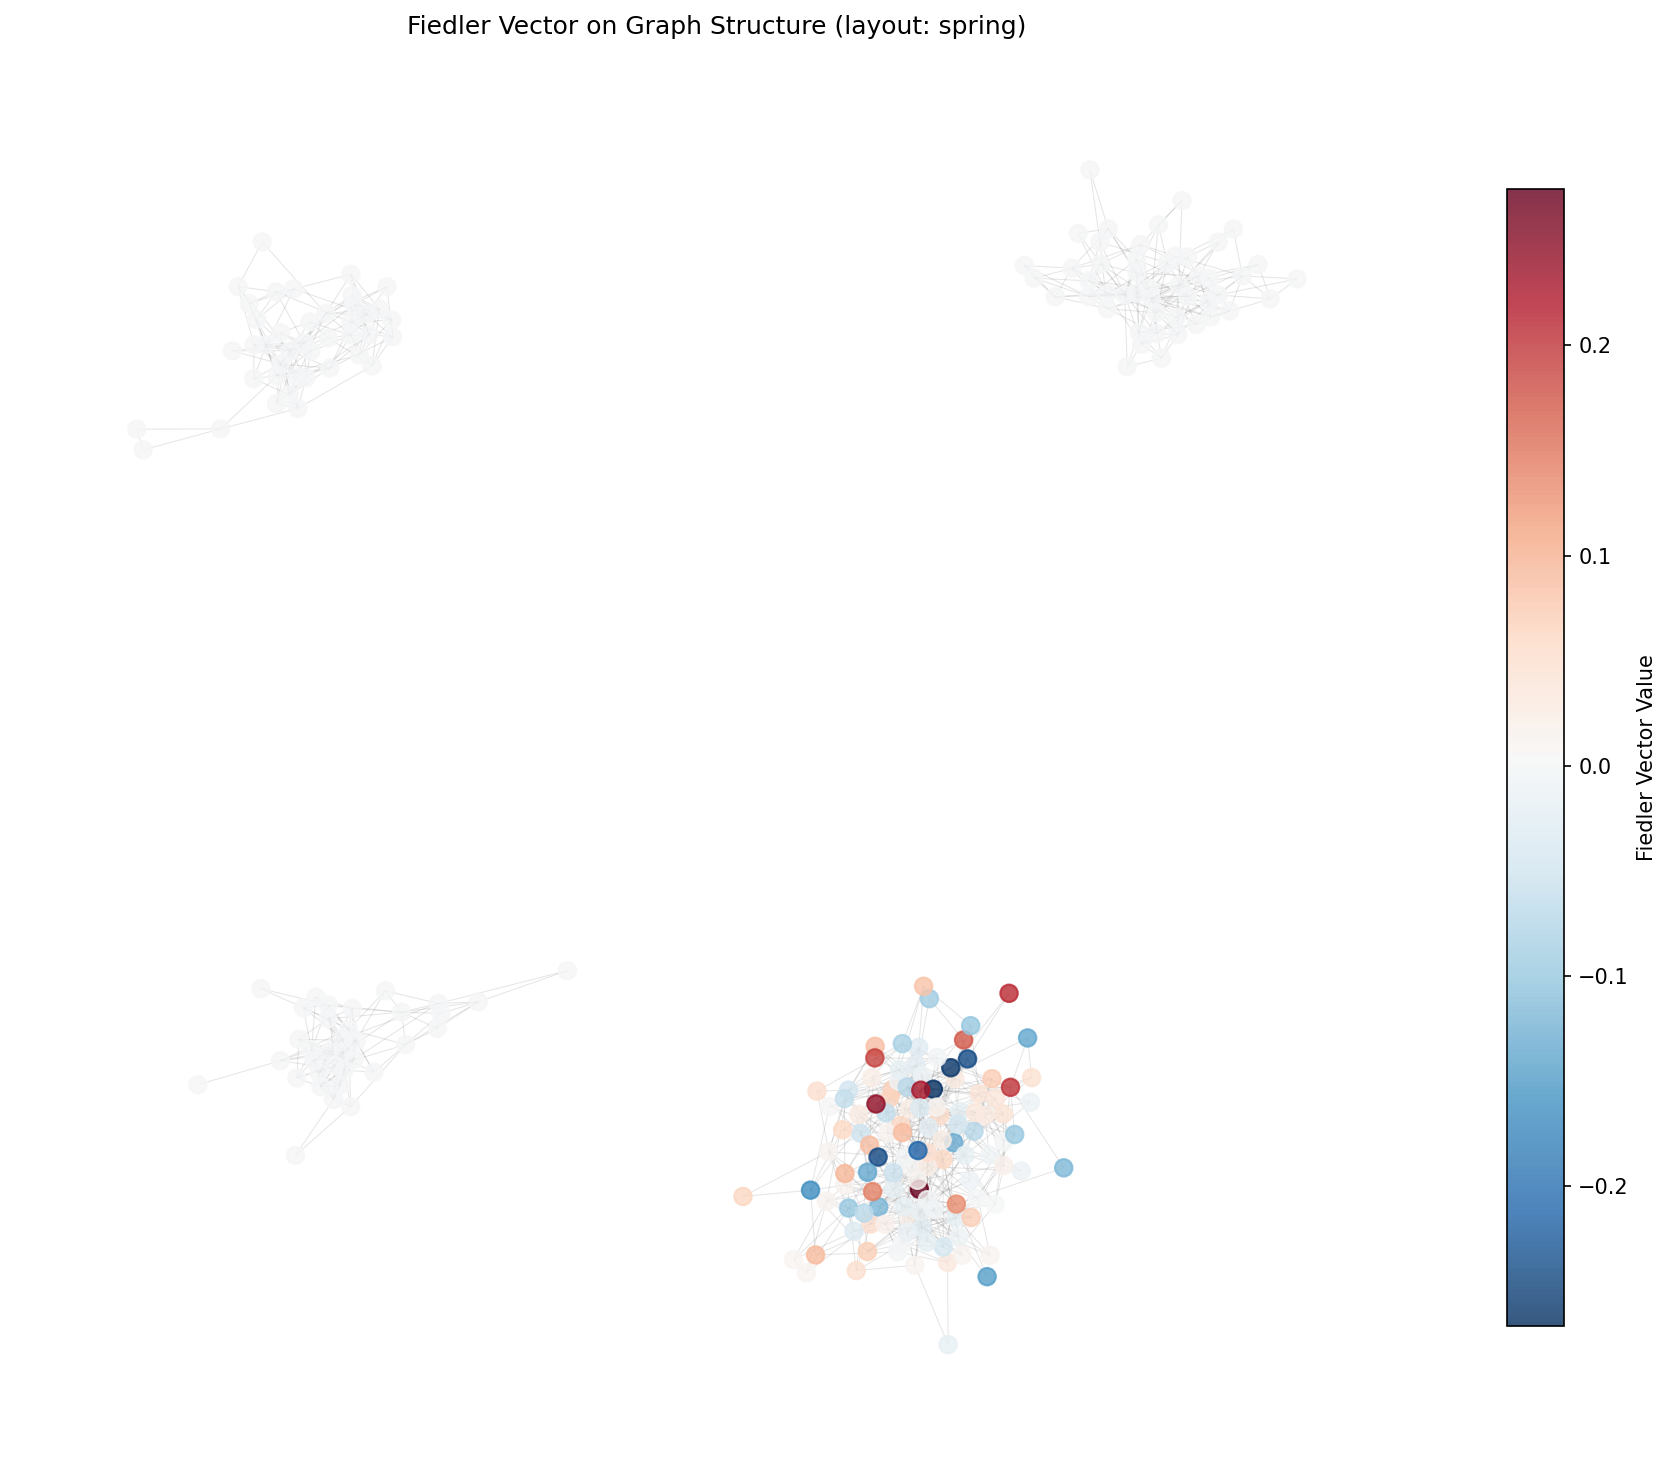
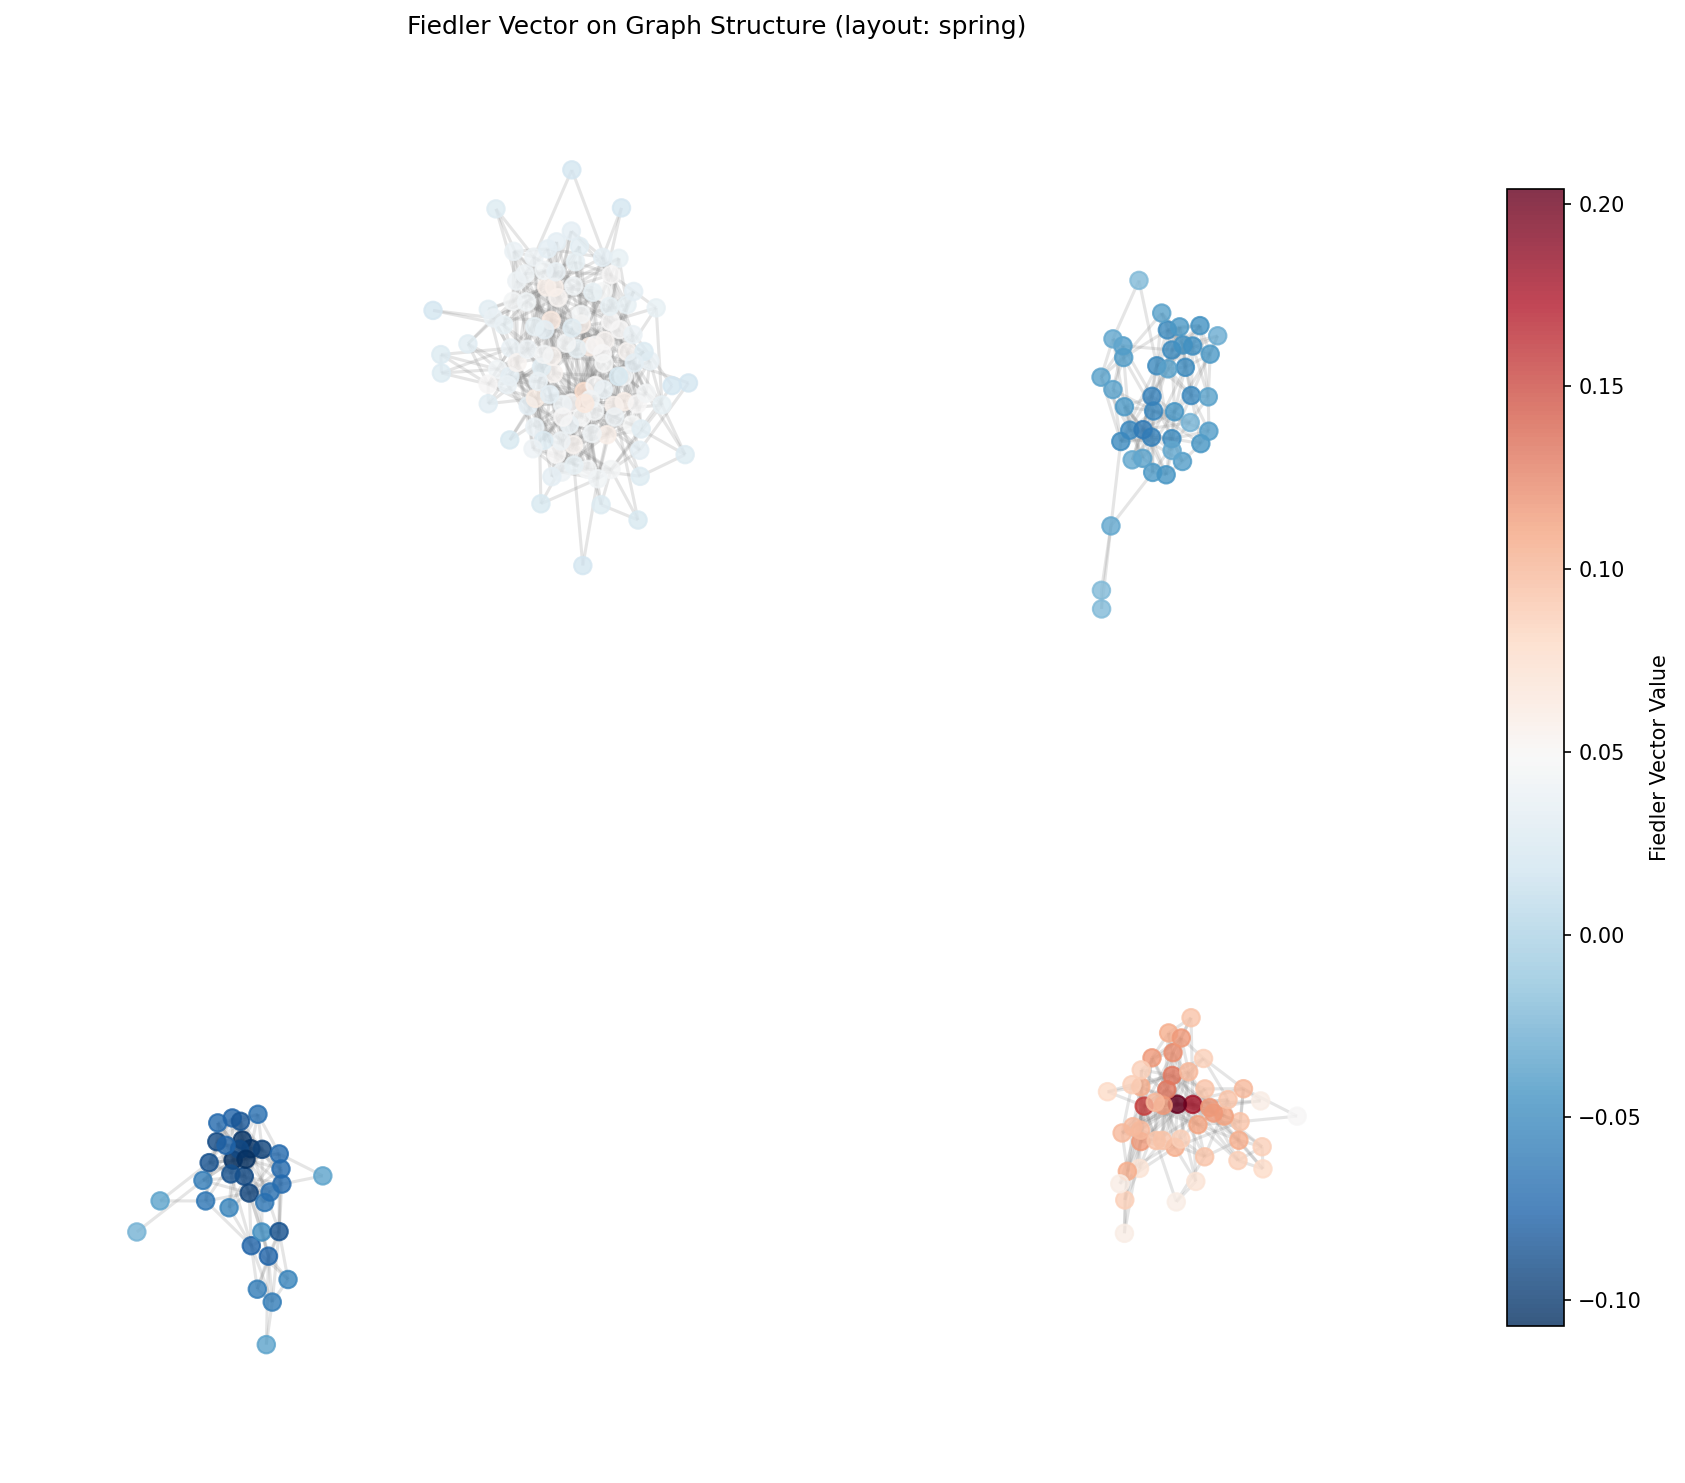
Gap detection

diff --git a/miner/core/spectra/cluster_machine.py b/miner/core/spectra/cluster_machine.py
@@ -60,7 +60,10 @@ class ClusterMachine:
         return self.eigenvectors
 
     @timer(active=True)
-    def compute_eigenvalues(self) -> EighResult:
+    def compute_eigenvalues(self, k: int | None = None) -> EighResult:
+        if k is None:
+            k = self.k
+
         if self.laplacian is None:
             self.build_laplacian()
 
@@ -68,7 +71,7 @@ class ClusterMachine:
         # If k is None, compute all eigenvalues (up to n-1 for n×n matrix)
 
         # Compute the k largest eigenvalues and eigenvectors
-        eigenvalues, eigenvectors = eigsh(self.laplacian, k=self.k, which="LA")
+        eigenvalues, eigenvectors = eigsh(self.laplacian, k=k, which="LA")
 
         # Sort the eigenvalues and eigenvectors in descending order
         # (x1, x2,..., xk)
@@ -76,7 +79,7 @@ class ClusterMachine:
         self.eigenvalues = eigenvalues[idx]
         self.eigenvectors = eigenvectors[:, idx]
 
-        self.logger.debug(f"Computed {self.k} largest eigenvalues and eigenvectors")
+        self.logger.debug(f"Computed {k} largest eigenvalues and eigenvectors")
 
         return EighResult(eigenvalues=self.eigenvalues, eigenvectors=self.eigenvectors)
 
@@ -98,41 +101,28 @@ class ClusterMachine:
 
     @property
     def fiedler_vector(self) -> np.ndarray:
-        """
-        Compute and return the Fiedler vector.
-        The Fiedler vector is the eigenvector corresponding to the second smallest
-        eigenvalue of the Laplacian. For the normalized Laplacian, this corresponds
-        to the eigenvector of the second smallest eigenvalue (after the zero eigenvalue).
+        # Check if we already computed eigenvectors for clustering
+        if self.eigenvectors is not None and self.eigenvectors.shape[1] >= 2:
+            # The eigenvectors are already sorted descending (Largest to Smallest)
+            # Index 0 is the stationary distribution (lambda ~ 1)
+            # Index 1 is the Fiedler vector (lambda ~ 2nd largest)
+            return self.eigenvectors[:, 1]
 
-        Returns:
-            The Fiedler vector as a numpy array
-        """
-        if self._fiedler_vector is None:
-            if self.laplacian is None:
-                self.build_laplacian()
+        # If not computed yet, compute the top 2 LARGEST
+        if self.laplacian is None:
+            self.build_laplacian()
 
-            # Compute the smallest eigenvalues to get the Fiedler vector
-            # The Fiedler vector corresponds to the second smallest eigenvalue
-            # (the first smallest is typically 0 for connected graphs)
-            k = min(2, self.laplacian.shape[0] - 1)
-            eigenvalues, eigenvectors = eigsh(self.laplacian, k=k, which="SA")
+        vals, vecs = eigsh(self.laplacian, k=2, which="LA")
 
-            # Sort in ascending order (smallest first)
-            idx = eigenvalues.argsort()
-            sorted_eigenvalues = eigenvalues[idx]
-            sorted_eigenvectors = eigenvectors[:, idx]
+        # Sort descending
+        idx = vals.argsort()[::-1]
+        sorted_vecs = vecs[:, idx]
 
-            # The Fiedler vector is the second smallest (index 1)
-            # If we only have one eigenvalue, use that one
-            if len(sorted_eigenvalues) >= 2:
-                self._fiedler_vector = sorted_eigenvectors[:, 1]
-            else:
-                self.logger.warning(
-                    "Only one eigenvalue available, using it as Fiedler vector"
-                )
-                self._fiedler_vector = sorted_eigenvectors[:, 0]
-
-            self.logger.debug("Computed Fiedler vector")
+        # Return 2nd vector
+        if sorted_vecs.shape[1] >= 2:
+            self._fiedler_vector = sorted_vecs[:, 1]
+        else:
+            self._fiedler_vector = sorted_vecs[:, 0]
 
         return self._fiedler_vector
 

diff --git a/miner/core/spectra/gap_finder.py b/miner/core/spectra/gap_finder.py
@@ -1,0 +1,54 @@
+import logging
+import numpy as np
+
+from scipy.sparse import csr_matrix
+
+from miner.core.spectra.cluster_machine import ClusterMachine
+
+
+class GapFinder:
+    def __init__(self, graph: csr_matrix):
+        self.graph = graph
+        self.logger = logging.getLogger(__name__)
+        self.cluster_machine = ClusterMachine(graph)
+        self.gaps = None
+        self.max_gap = None
+
+    def find_best_k(self, max_k_to_check: int) -> int:
+        """
+        Finds the optimal number of clusters (k) by looking for the largest eigengap.
+        Returns the integer k.
+        """
+        self.find_all_gaps(max_k_to_check)
+
+        gap_index = np.argmax(self.gaps)
+
+        best_k = gap_index + 1
+
+        self.logger.info(
+            f"Largest gap found at index {gap_index}, suggesting k={best_k}"
+        )
+        return best_k
+
+    def find_all_gaps(self, max_k: int) -> list[float]:
+        """
+        Computes the first max_k eigenvalues and calculates the gaps.
+        """
+        self.cluster_machine.k = max_k
+
+        self.cluster_machine.compute_eigenvalues()
+
+        eigenvalues = self.cluster_machine.eigenvalues
+
+        gaps = eigenvalues[:-1] - eigenvalues[1:]
+
+        self.gaps = gaps
+
+        if self.logger.isEnabledFor(logging.DEBUG):
+            self.log_gaps()
+
+        return gaps
+
+    def log_gaps(self):
+        for i, gap in enumerate(self.gaps):
+            self.logger.debug(f"Gap between λ_{i + 1} and λ_{i + 2}: {gap:.4f}")

diff --git a/test/spectra/test_cluster_machine.py b/test/spectra/test_cluster_machine.py
@@ -16,7 +16,7 @@ PRESENTATION_DIR = ROOT_DIR / "presentation" / "hw4" / "imgs"
 EXAMPLE_1_FOLDER = PRESENTATION_DIR / "example1"
 EXAMPLE_2_FOLDER = PRESENTATION_DIR / "example2"
 K1 = 4
-K2 = 10
+K2 = 2
 
 EXAMPLE_1_K_FOLDER = EXAMPLE_1_FOLDER / f"K_{K1}"
 EXAMPLE_2_K_FOLDER = EXAMPLE_2_FOLDER / f"K_{K2}"
@@ -39,9 +39,7 @@ def test_cluster_machine_1(K: int):
 
     plotter = ClusterPlotter(cluster_machine)
     plotter.plot_clusters(EXAMPLE_1_K_FOLDER, f"example1_clusters_K_{K}.png")
-    plotter.plot_eigenvalue_spectrum(
-        EXAMPLE_1_K_FOLDER, f"example1_eigenvalue_spectrum_K_{K}.png"
-    )
+
     plotter.plot_graph_structure(
         EXAMPLE_1_K_FOLDER,
         f"example1_graph_structure_K_{K}.png",
@@ -69,13 +67,11 @@ def test_cluster_machine_2(K: int):
 
     plotter = ClusterPlotter(cluster_machine)
     plotter.plot_clusters(EXAMPLE_2_K_FOLDER, f"example2_clusters_K_{K}.png")
-    plotter.plot_eigenvalue_spectrum(
-        EXAMPLE_2_K_FOLDER, f"example2_eigenvalue_spectrum_K_{K}.png"
-    )
+
     plotter.plot_graph_structure(
         EXAMPLE_2_K_FOLDER,
         f"example2_graph_structure_K_{K}.png",
-        layout="circular",
+        layout="spring",
         node_size=70,
     )
     plotter.plot_fiedler_vector(

diff --git a/miner/core/spectra/cluster_plotter.py b/miner/core/spectra/cluster_plotter.py
@@ -137,7 +137,7 @@ class ClusterPlotter:
         plt.figure(figsize=figsize)
 
         # Draw edges first (so nodes appear on top)
-        nx.draw_networkx_edges(G, pos, alpha=0.2, width=0.5, edge_color="gray")
+        nx.draw_networkx_edges(G, pos, alpha=0.2, width=1.5, edge_color="gray")
 
         # Draw nodes with cluster colors
         nx.draw_networkx_nodes(
@@ -276,7 +276,7 @@ class ClusterPlotter:
         plt.figure(figsize=figsize)
 
         # Draw edges first
-        nx.draw_networkx_edges(G, pos, alpha=0.2, width=0.5, edge_color="gray")
+        nx.draw_networkx_edges(G, pos, alpha=0.2, width=1.5, edge_color="gray")
 
         # Draw nodes colored by Fiedler vector values
         # Use a diverging colormap (e.g., RdBu_r) to show positive/negative values

diff --git a/test/spectra/test_gaps.py b/test/spectra/test_gaps.py
@@ -1,0 +1,25 @@
+from pathlib import Path
+import logging
+
+from miner.core.spectra.gap_finder import GapFinder
+from miner.core.spectra.graph_loader import GraphLoader
+
+logger = logging.getLogger(__name__)
+
+
+ROOT_DIR = Path(__file__).resolve().parents[2]
+DATA_DIR = ROOT_DIR / "data" / "graph"
+EX_1_PATH = DATA_DIR / "example1.dat"
+EX_2_PATH = DATA_DIR / "example2.dat"
+
+
+def test_ex_1():
+    graph_loader = GraphLoader(EX_1_PATH)
+    matrix = graph_loader.build()
+    gap_finder = GapFinder(matrix)
+    max_gap = gap_finder.find_best_k(max_k_to_check=15)
+    logger.info(f"Best k: {max_gap}")
+
+
+if __name__ == "__main__":
+    test_ex_1()
